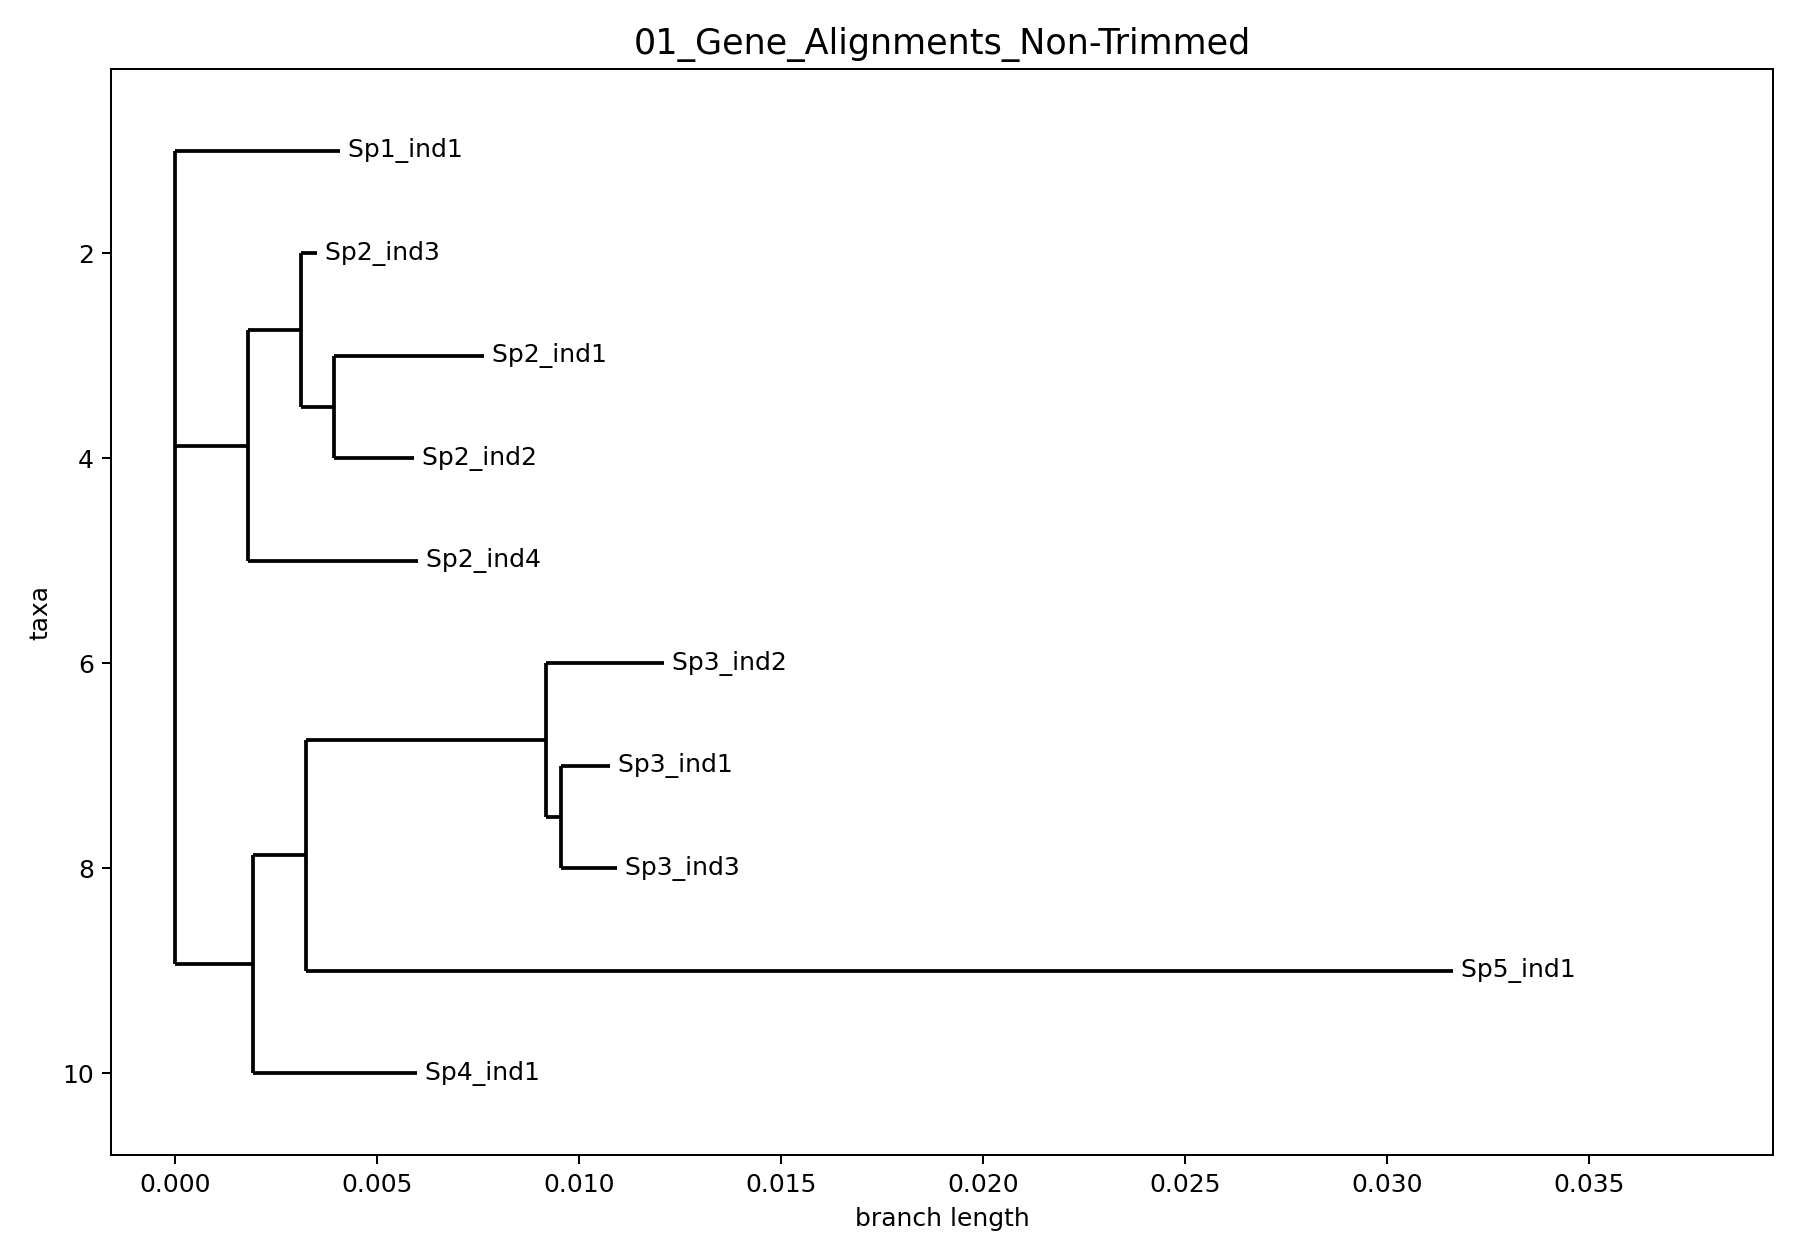
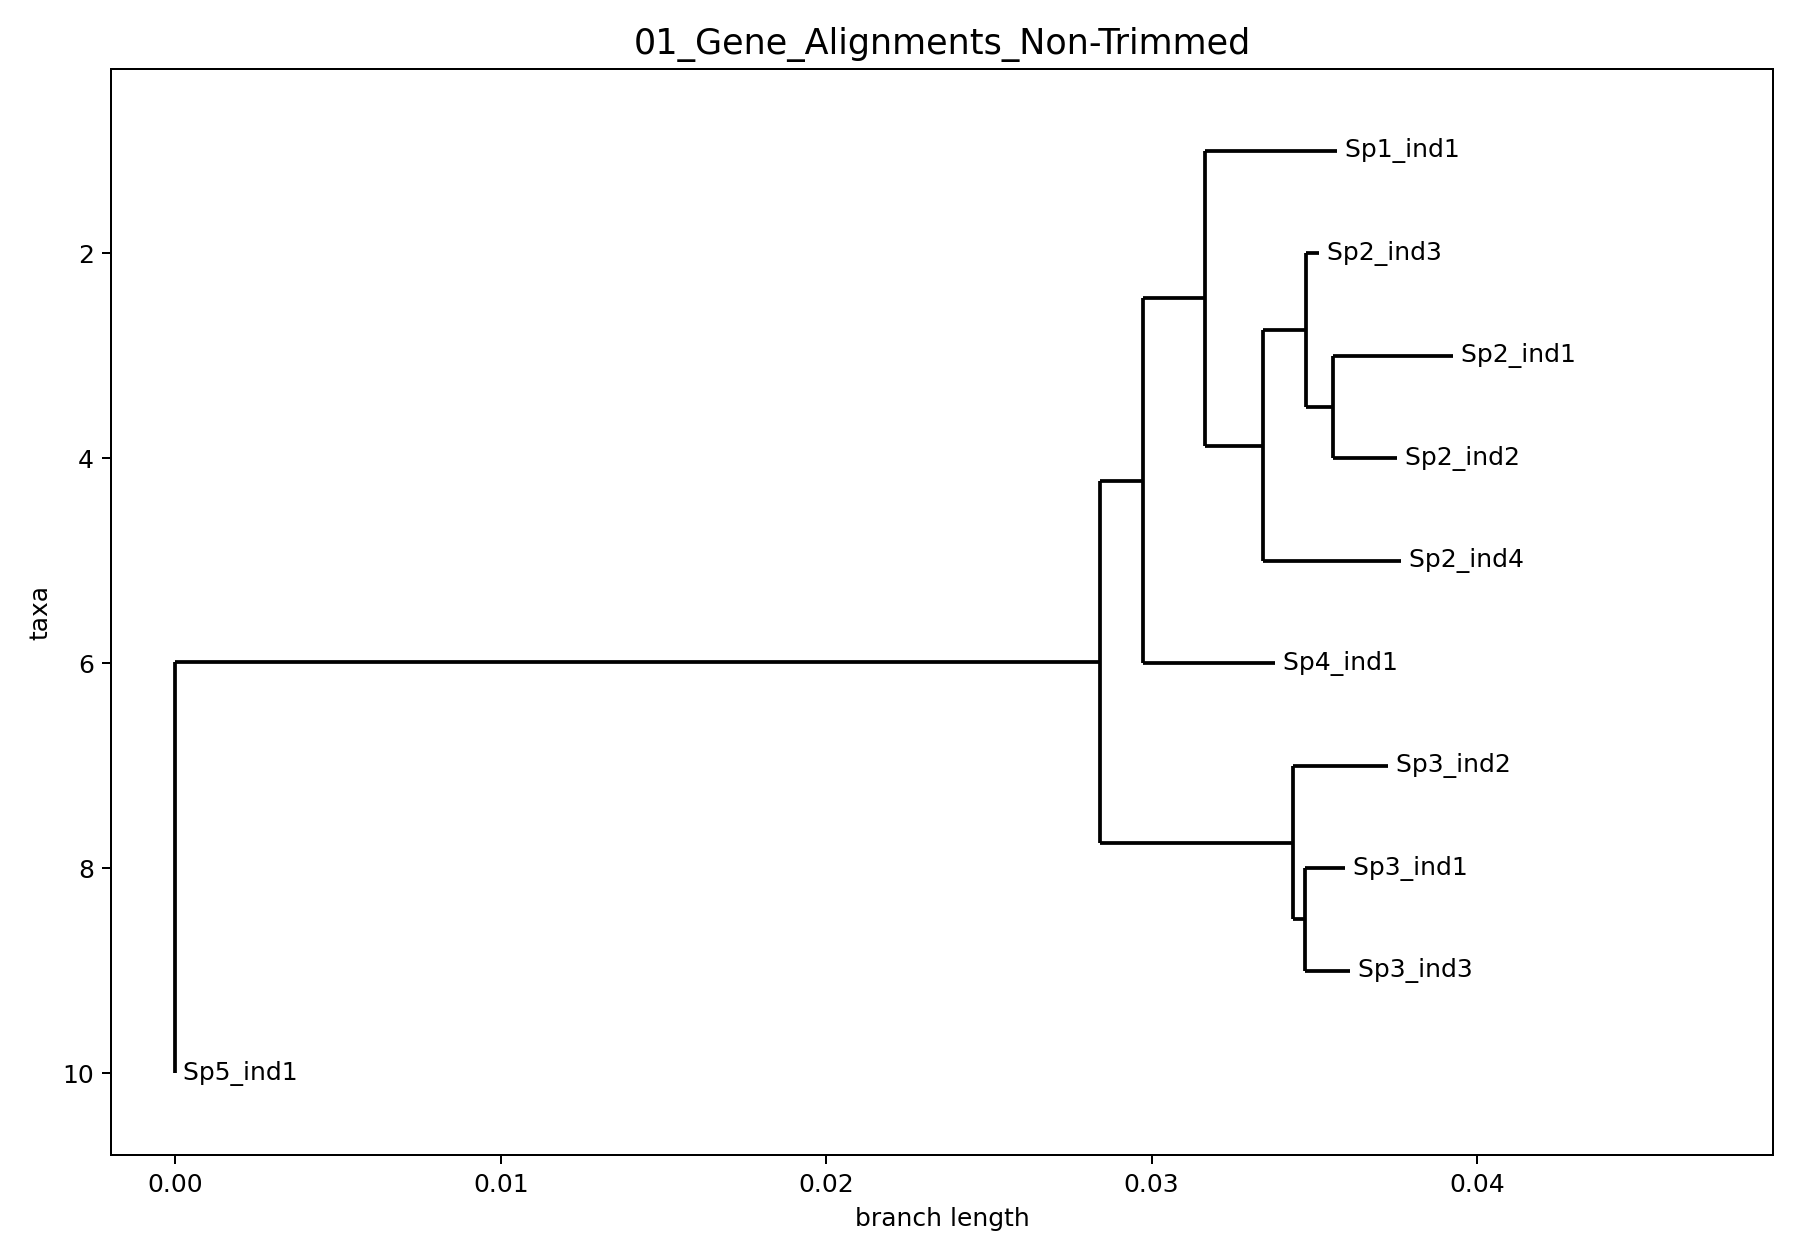
Root README tree figures on outgroup

diff --git a/scripts/draw_tree.py b/scripts/draw_tree.py
@@ -13,8 +13,14 @@ def main() -> int:
     ap.add_argument("input_tree")
     ap.add_argument("output_png")
     ap.add_argument("--title", default="")
+    ap.add_argument("--outgroup", default="")
     args = ap.parse_args()
     tree = Phylo.read(args.input_tree, "newick")
+    if args.outgroup:
+        matches = [clade for clade in tree.find_clades() if getattr(clade, "name", None) == args.outgroup]
+        if not matches:
+            raise SystemExit(f"Outgroup '{args.outgroup}' not found in tree.")
+        tree.root_with_outgroup(matches[0])
     fig = plt.figure(figsize=(10, 7))
     ax = fig.add_subplot(1, 1, 1)
     Phylo.draw(tree, axes=ax, do_show=False, show_confidence=False)
